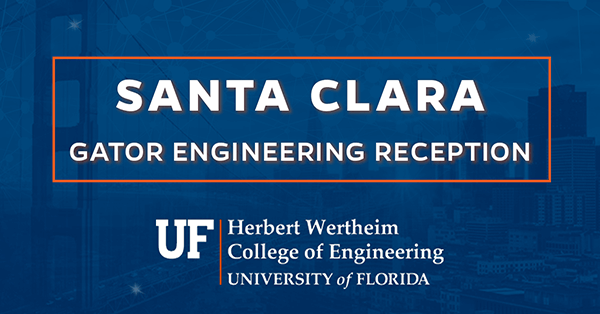
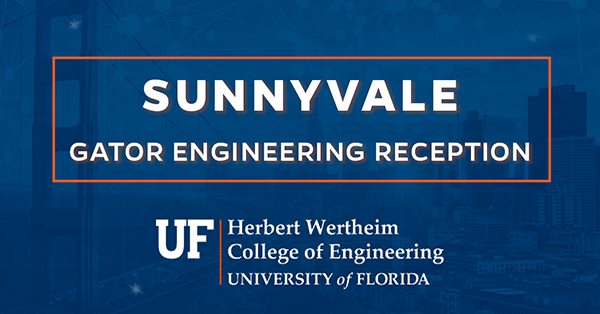
Update header location to Sunnyvale

Changed region(s): [[0.18, 0.2293, 0.81, 0.3726]]

diff --git a/wcab/2018/wcab2018-inlined.html b/wcab/2018/wcab2018-inlined.html
@@ -336,7 +336,7 @@
 				<table border="0" align="center" cellpadding="0" cellspacing="0" class="container-table" style="font-family: Arial, Helvetica, sans-serif;font-size: 16px;width: 600px;border-collapse: collapse;">
 					<tr>
 						<td class="img" bgcolor="#ffffff" style="padding-top: 0;padding-left: 0;padding-bottom: 0;padding-right: 0;font-family: 'gentona', Helvetica, Arial, sans-serif;font-weight: 300;font-size: 12px;">
-							<img src="https://www.eng.ufl.edu/eblasts/wcab/2018/images/wcab-2018-header.png" width="600" height="314" border="0" align="left" class="header-image" alt="Santa Clara Gator Engineering Reception | UF Herbert Wertheim College of Engineering" style="height: auto;display: block;margin: 0;padding: 0;border: 0;max-width: 600px;vertical-align: bottom;outline: none;text-decoration: none;image-rendering: crisp-edges;">
+							<img src="https://www.eng.ufl.edu/eblasts/wcab/2018/images/wcab-2018-header.png" width="600" height="314" border="0" align="left" class="header-image" alt="Sunnyvale Gator Engineering Reception | UF Herbert Wertheim College of Engineering" style="height: auto;display: block;margin: 0;padding: 0;border: 0;max-width: 600px;vertical-align: bottom;outline: none;text-decoration: none;image-rendering: crisp-edges;">
 						</td>
 					</tr>
 					<tr>

diff --git a/wcab/2018/wcab2018.html b/wcab/2018/wcab2018.html
@@ -336,7 +336,7 @@
 				<table border="0" align="center" cellpadding="0" cellspacing="0" class="container-table" style="font-family:Arial, Helvetica, sans-serif; font-size:16px;">
 					<tr>
 						<td class="img" bgcolor="#ffffff">
-							<img src="https://www.eng.ufl.edu/eblasts/wcab/2018/images/wcab-2018-header.png" width="600" height="314" border="0" align="left" class="header-image" alt="Santa Clara Gator Engineering Reception | UF Herbert Wertheim College of Engineering" />
+							<img src="https://www.eng.ufl.edu/eblasts/wcab/2018/images/wcab-2018-header.png" width="600" height="314" border="0" align="left" class="header-image" alt="Sunnyvale Gator Engineering Reception | UF Herbert Wertheim College of Engineering" />
 						</td>
 					</tr>
 					<tr>
